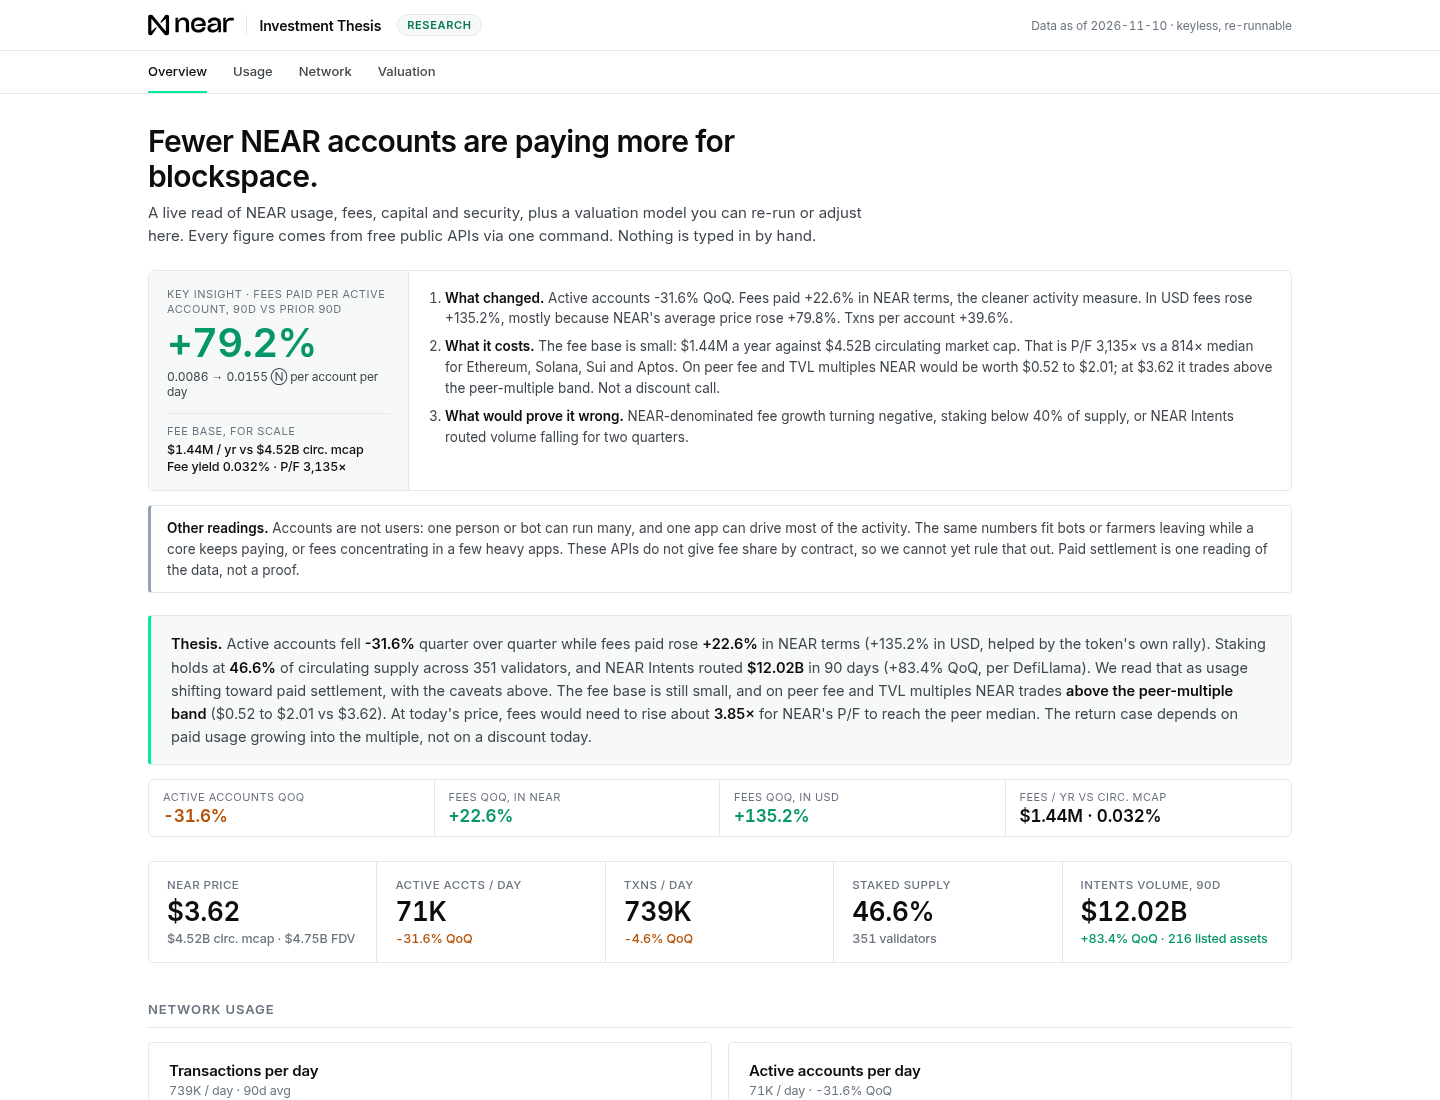
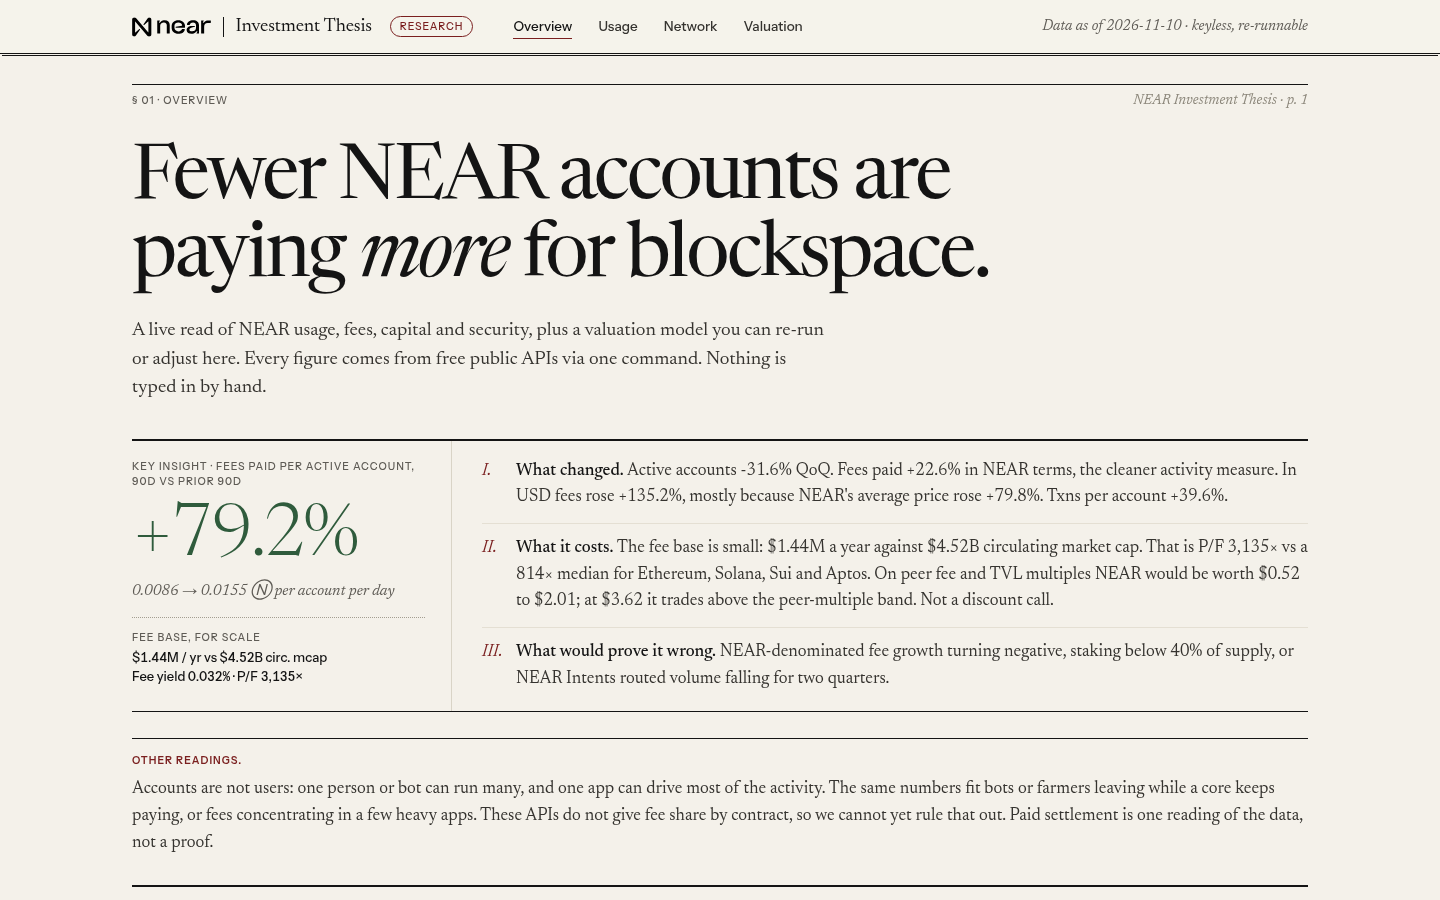
Tighten README and page copy, drop internal drafts and old screenshots

diff --git a/app/Dashboard.js b/app/Dashboard.js
@@ -335,7 +335,7 @@ export default function Dashboard({ data }) {
               </tbody>
             </table></div>
             <div className="assume">
-              <div className="assume-h">Drag or type a multiple. Band, implied price and verdict update instantly. Fee and TVL presets come from peer data; anything you type is your assumption.</div>
+              <div className="assume-h">Drag or type a multiple. The band, implied price and verdict update as you go. Fee and TVL presets come from peer data; anything you type is your assumption.</div>
               {[
                 ['pf', 'Price-to-fees multiple', 100, 20000, 100, (v) => nf(v) + '×'],
                 ['mt', 'Market-cap / TVL multiple', 1, 150, 1, (v) => v + '×'],
@@ -374,7 +374,7 @@ export default function Dashboard({ data }) {
         </div>
 
         <div className="pageft">
-          Model generated {m.generated_at}. QoQ = last 90 days ({m.adoption.window.last90[0]} to {m.adoption.window.last90[1]}) vs the 90 days before. Sources, fetched {charts.fetched_at.slice(0, 16).replace('T', ' ')} UTC: NEARBlocks, DefiLlama (TVL, chain fees, NEAR Intents volume), CoinGecko (peer prices and mcap), NEAR RPC, NEAR Intents 1Click. All free and keyless. Rebuild with <code>npm run build</code>. NEAR HACKATHON, Investment Thesis track. Not financial advice.
+          Model generated {m.generated_at}. QoQ = last 90 days ({m.adoption.window.last90[0]} to {m.adoption.window.last90[1]}) vs the 90 days before. Sources, fetched {charts.fetched_at.slice(0, 16).replace('T', ' ')} UTC: NEARBlocks, DefiLlama (TVL, chain fees, NEAR Intents volume), CoinGecko (peer prices and mcap), NEAR RPC, NEAR Intents 1Click. All free and keyless. Rebuild with <code>npm run build</code>. NEAR Hackathon, Investment Thesis track. Not financial advice.
         </div>
       </div>
     </>

diff --git a/app/layout.js b/app/layout.js
@@ -1,7 +1,7 @@
 import './globals.css';
 export const metadata = {
   title: 'NEAR Investment Thesis: Live Onchain Dashboard',
-  description: 'Reproducible investment thesis for NEAR. Built at NEAR HACKATHON.',
+  description: 'A NEAR investment thesis you can re-run from public data. Built for the NEAR Hackathon.',
 };
 export const viewport = { width: 'device-width', initialScale: 1 };
 export default function RootLayout({ children }) {

diff --git a/model/write_thesis.py b/model/write_thesis.py
@@ -1,5 +1,5 @@
 #!/usr/bin/env python3
-"""Writes THESIS.md from model/model_output.json so the write-up can never drift from the data."""
+"""Writes THESIS.md from model/model_output.json so the write-up matches the data."""
 import json, os
 ROOT = os.path.join(os.path.dirname(__file__), "..")
 m = json.load(open(os.path.join(ROOT, "model", "model_output.json")))
@@ -123,26 +123,26 @@ multiples NEAR would be {px(V['price_at_peer_medians_usd'])}. At today's price, 
 {V['fee_multiple_needed_for_peer_median_pf']}x for NEAR's P/F to reach the peer median.{qtxt}
 
 ## Other data
-- **Staking.** {m['security']['staked_near']/1e6:.1f}M NEAR, {pp(m['security']['staked_ratio'])} of circulating supply, across
-  {m['security']['num_validators']} validators.
-- **NEAR Intents volume.** {usdB(IV['volume_usd_90d'])} routed in the last 90 days, {pct(IV['volume_growth_qoq'])} QoQ
-  (DefiLlama `near-intents` adapter). This is swap volume, not fees to NEAR.
-- **NEAR Intents listed assets.** {json.load(open(os.path.join(ROOT,'data','intents_assets.json')))['data']['asset_count']} assets across {json.load(open(os.path.join(ROOT,'data','intents_assets.json')))['data']['chains_supported']} chains listed by the 1Click API.
-  This counts breadth, not usage.
-- **Capital.** DeFi TVL is {usdM(m['defi']['tvl_usd'])}.
-- **Accounts and transactions.** {A['active_accounts_90d_avg']/1e3:.1f}K active accounts a day
-  ({pct(A['active_accounts_growth_qoq'])} QoQ) and {A['txns_90d_avg']/1e3:.0f}K transactions a day ({pct(A['txns_growth_qoq'])} QoQ).
+Staking: {m['security']['staked_near']/1e6:.1f}M NEAR, {pp(m['security']['staked_ratio'])} of circulating supply, across
+{m['security']['num_validators']} validators.
+
+NEAR Intents routed {usdB(IV['volume_usd_90d'])} in the last 90 days, {pct(IV['volume_growth_qoq'])} QoQ
+(DefiLlama `near-intents` adapter). This is swap volume, not fees to NEAR. The 1Click API lists
+{json.load(open(os.path.join(ROOT,'data','intents_assets.json')))['data']['asset_count']} assets across {json.load(open(os.path.join(ROOT,'data','intents_assets.json')))['data']['chains_supported']} chains, which measures breadth, not usage.
+
+DeFi TVL is {usdM(m['defi']['tvl_usd'])}. Active accounts average {A['active_accounts_90d_avg']/1e3:.1f}K a day
+({pct(A['active_accounts_growth_qoq'])} QoQ) and transactions {A['txns_90d_avg']/1e3:.0f}K a day ({pct(A['txns_growth_qoq'])} QoQ).
 
 ## What would change our mind
-1. **Fees roll over.** QoQ fee growth in NEAR terms turns negative.
-2. **The premium does not close.** NEAR's P/F stays near {PR['near_pf_vs_peer_median']}x the peer median
+1. Fees roll over: QoQ fee growth in NEAR terms turns negative.
+2. The premium does not close: NEAR's P/F stays near {PR['near_pf_vs_peer_median']}x the peer median
    for two quarters while price holds.
-3. **Fees are concentrated.** Contract-level data shows most fees come from one
+3. Fees are concentrated: contract-level data shows most fees come from one
    or two apps or from bot loops.
-4. **Staking falls.** Staked ratio drops below 40%, or the validator set shrinks
+4. Staking falls: staked ratio drops below 40%, or the validator set shrinks
    materially.
-5. **Intents stalls.** Routed volume falls for two quarters.
-6. **Capital leaves.** TVL falls more than 30% while price holds.
+5. Intents stalls: routed volume falls for two quarters.
+6. Capital leaves: DeFi TVL falls more than 30% while price holds.
 
 ## Reproduce
 ```bash

diff --git a/README.md b/README.md
@@ -3,11 +3,11 @@
 A live onchain dashboard and a re-runnable valuation model for NEAR.
 Built for the NEAR Hackathon, Investment Thesis track.
 
-**Live:** https://out-sage-gamma.vercel.app
+Live: https://out-sage-gamma.vercel.app
 
 ![Dashboard](shots/desktop-hero.png)
 
-## Thesis in one line
+## Thesis
 Fewer NEAR accounts are paying more for blockspace. Over the last 90 days,
 active accounts fell 31.6% against the prior 90 days while gas fees paid rose
 22.6% in NEAR terms (135.2% in USD, mostly because NEAR's price rose), so fees
@@ -22,22 +22,22 @@ Snapshot: 2026-11-10. `npm run build` regenerates every number, including
 [THESIS.md](THESIS.md), which is written from the model output.
 
 ## What the dashboard shows
-- **Key insight and read.** Fees per active account, the fee base for scale,
-  then what changed, what it costs and what would prove it wrong.
-- **Other readings.** Accounts are not users. The same data fits bots or
-  farmers leaving, or fees concentrating in a few apps.
-- **Network usage.** Transactions, active and new accounts, gas fees in NEAR
-  and in USD, and fees per active account (derived).
-- **Capital and security.** DeFi TVL, total and circulating supply, staking
-  ratio and validator count, NEAR Intents listed assets per chain (breadth,
-  not volume) and NEAR Intents routed volume (DefiLlama).
-- **Valuation.** A live peer table (price, circulating mcap, annualized fees,
-  P/F, fee yield, TVL, Mcap/TVL) with sources, then a fair-value band from the
-  fee and TVL lenses at peer multiples. Bear, Base and Bull presets plus
+- The key insight, fees per active account, with the fee base next to it for
+  scale, then what changed, what it costs and what would prove it wrong.
+- Other readings of the same data. Accounts are not users, and the numbers
+  also fit bots or farmers leaving, or fees concentrating in a few apps.
+- Network usage: transactions, active and new accounts, gas fees in NEAR and
+  in USD, and fees per active account (derived).
+- Capital and security: DeFi TVL, total and circulating supply, staking ratio
+  and validator count, NEAR Intents listed assets per chain (breadth, not
+  volume) and NEAR Intents routed volume (DefiLlama).
+- Valuation: a live peer table (price, circulating mcap, annualized fees, P/F,
+  fee yield, TVL, Mcap/TVL) with sources, then a fair-value band from the fee
+  and TVL lenses at peer multiples, with Bear, Base and Bull presets and
   sliders. The value-per-active-account lens is shown but labelled unsourced
   and kept out of the band, since no like-for-like public peer series exists.
-- **Falsifiers.** The conditions that would change the view, with current
-  values next to each.
+- Falsifiers: the conditions that would change the view, with current values
+  next to each.
 
 All ratios use circulating market cap (price x circulating supply). FDV is
 shown separately. NEARBlocks' `market_cap` field equals FDV, so it is not used
@@ -94,7 +94,7 @@ shots/                   screenshots
 ```
 
 ## Design
-The dashboard's visual style (paper, black ink, one oxblood accent, hairlines, running heads, numbered figures) is inspired by the [Parallel, Finance](https://www.framer.com/marketplace/templates/parallel-finance/) Framer template. The code is original and uses the free Google Fonts Newsreader and Instrument Sans; no template code or assets are used.
+The dashboard's visual style (paper, black ink, one oxblood accent, hairlines, running heads, numbered figures) is inspired by the [Parallel, Finance](https://www.framer.com/marketplace/templates/parallel-finance/) Framer template. The code is original and uses the free Google Fonts Newsreader and Instrument Sans. No template code or assets are used.
 
 ## License
 MIT. Not financial advice.

diff --git a/THESIS.md b/THESIS.md
@@ -91,26 +91,26 @@ multiples NEAR would be $1.08. At today's price, fees must grow about
 3.85x for NEAR's P/F to reach the peer median. At the latest +22.6% QoQ rate in NEAR terms that is about 6.6 quarters. That is arithmetic, not a forecast.
 
 ## Other data
-- **Staking.** 582.1M NEAR, 46.6% of circulating supply, across
-  351 validators.
-- **NEAR Intents volume.** $12.02B routed in the last 90 days, +83.4% QoQ
-  (DefiLlama `near-intents` adapter). This is swap volume, not fees to NEAR.
-- **NEAR Intents listed assets.** 216 assets across 39 chains listed by the 1Click API.
-  This counts breadth, not usage.
-- **Capital.** DeFi TVL is $169.19M.
-- **Accounts and transactions.** 70.7K active accounts a day
-  (-31.6% QoQ) and 739K transactions a day (-4.6% QoQ).
+Staking: 582.1M NEAR, 46.6% of circulating supply, across
+351 validators.
+
+NEAR Intents routed $12.02B in the last 90 days, +83.4% QoQ
+(DefiLlama `near-intents` adapter). This is swap volume, not fees to NEAR. The 1Click API lists
+216 assets across 39 chains, which measures breadth, not usage.
+
+DeFi TVL is $169.19M. Active accounts average 70.7K a day
+(-31.6% QoQ) and transactions 739K a day (-4.6% QoQ).
 
 ## What would change our mind
-1. **Fees roll over.** QoQ fee growth in NEAR terms turns negative.
-2. **The premium does not close.** NEAR's P/F stays near 3.85x the peer median
+1. Fees roll over: QoQ fee growth in NEAR terms turns negative.
+2. The premium does not close: NEAR's P/F stays near 3.85x the peer median
    for two quarters while price holds.
-3. **Fees are concentrated.** Contract-level data shows most fees come from one
+3. Fees are concentrated: contract-level data shows most fees come from one
    or two apps or from bot loops.
-4. **Staking falls.** Staked ratio drops below 40%, or the validator set shrinks
+4. Staking falls: staked ratio drops below 40%, or the validator set shrinks
    materially.
-5. **Intents stalls.** Routed volume falls for two quarters.
-6. **Capital leaves.** TVL falls more than 30% while price holds.
+5. Intents stalls: routed volume falls for two quarters.
+6. Capital leaves: DeFi TVL falls more than 30% while price holds.
 
 ## Reproduce
 ```bash
